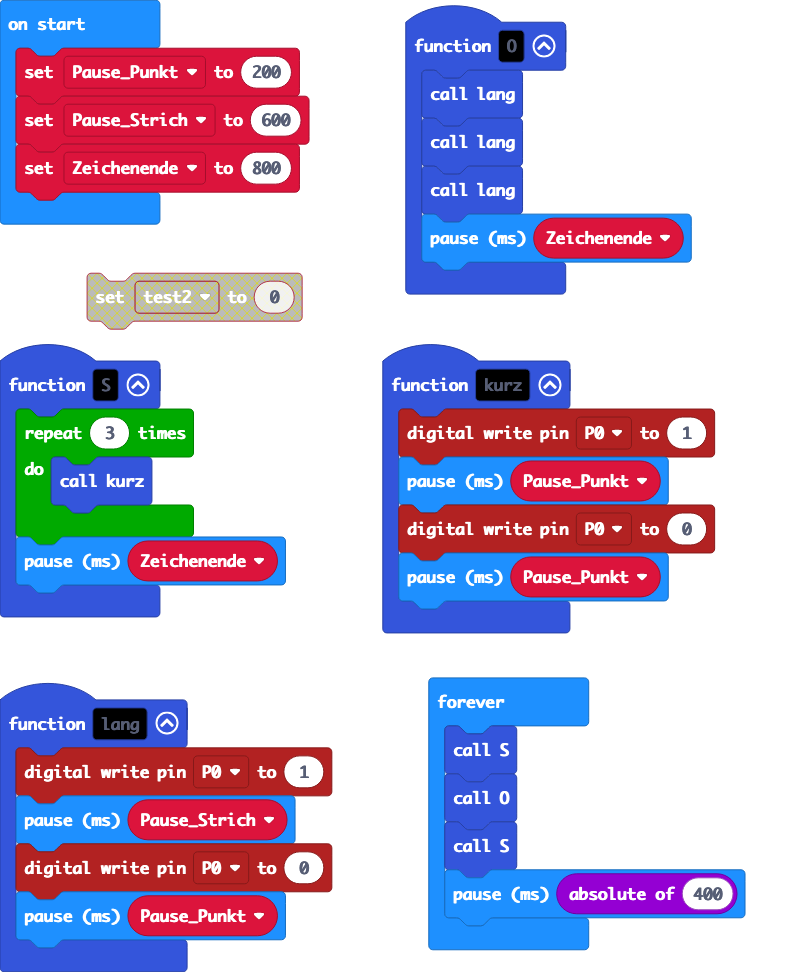
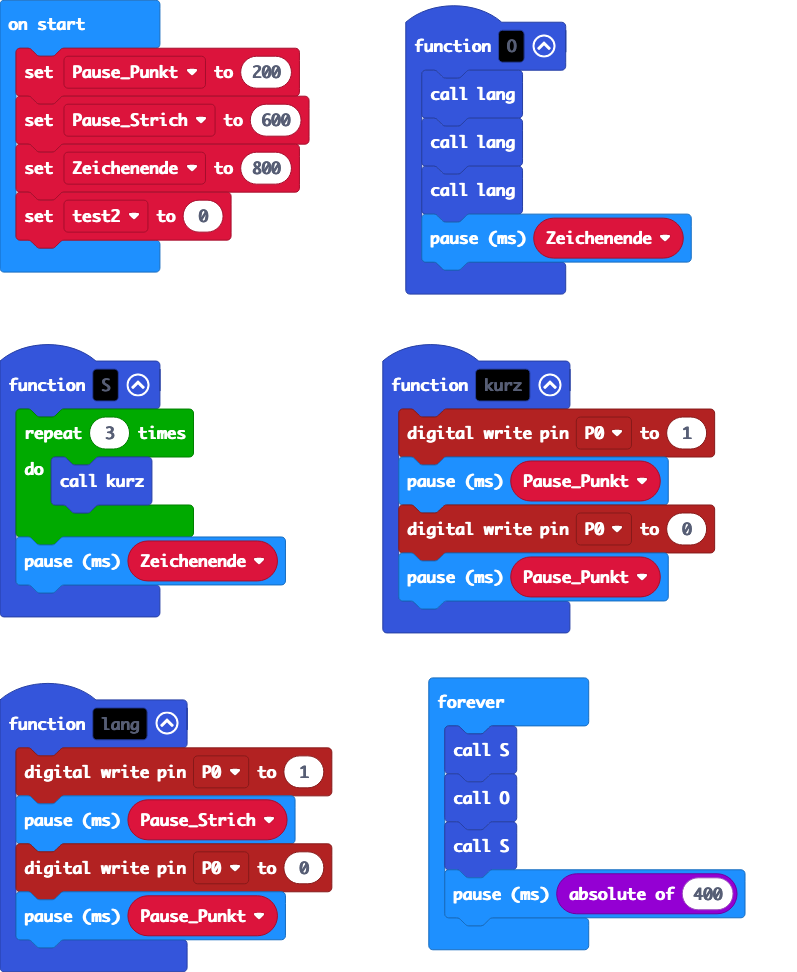
Update main.blocks, main.ts

Changed region(s): [[0.0, 0.1852, 0.3915, 0.3395]]

diff --git a/main.ts b/main.ts
@@ -28,6 +28,7 @@ let Pause_Punkt = 0
 Pause_Punkt = 200
 Pause_Strich = 600
 Zeichenende = 800
+let test2 = 0
 basic.forever(function () {
     S()
     O()
